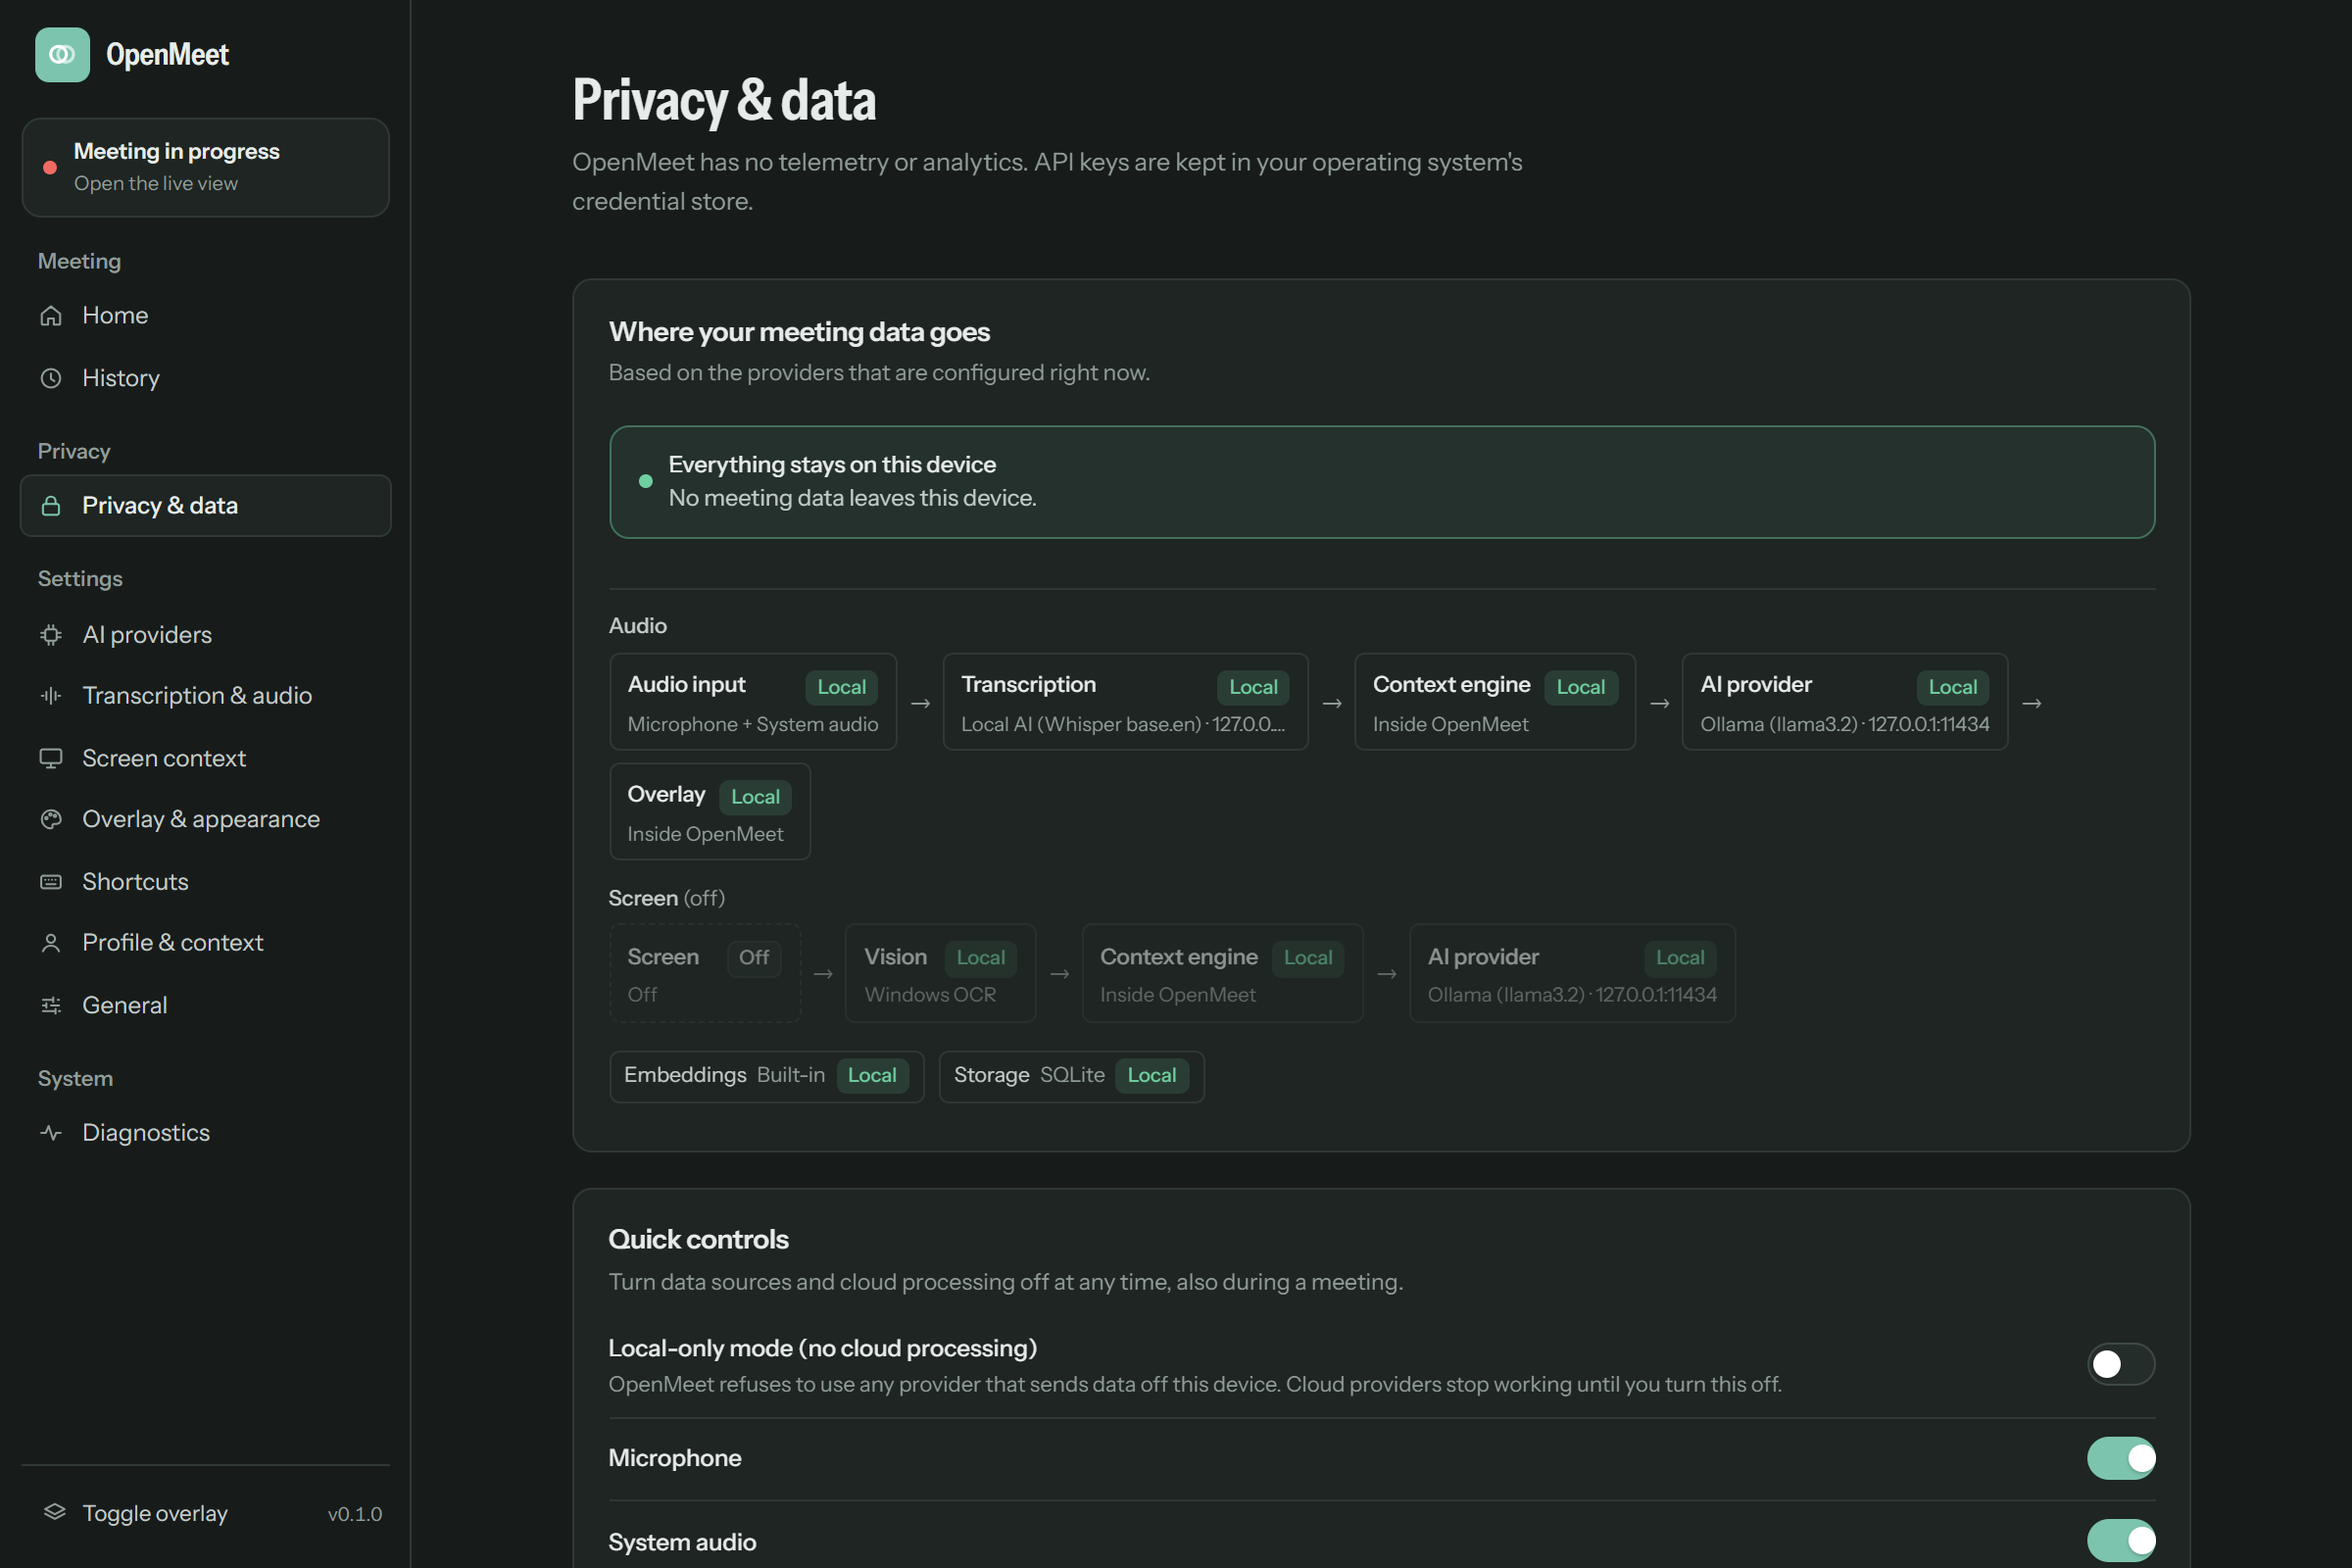
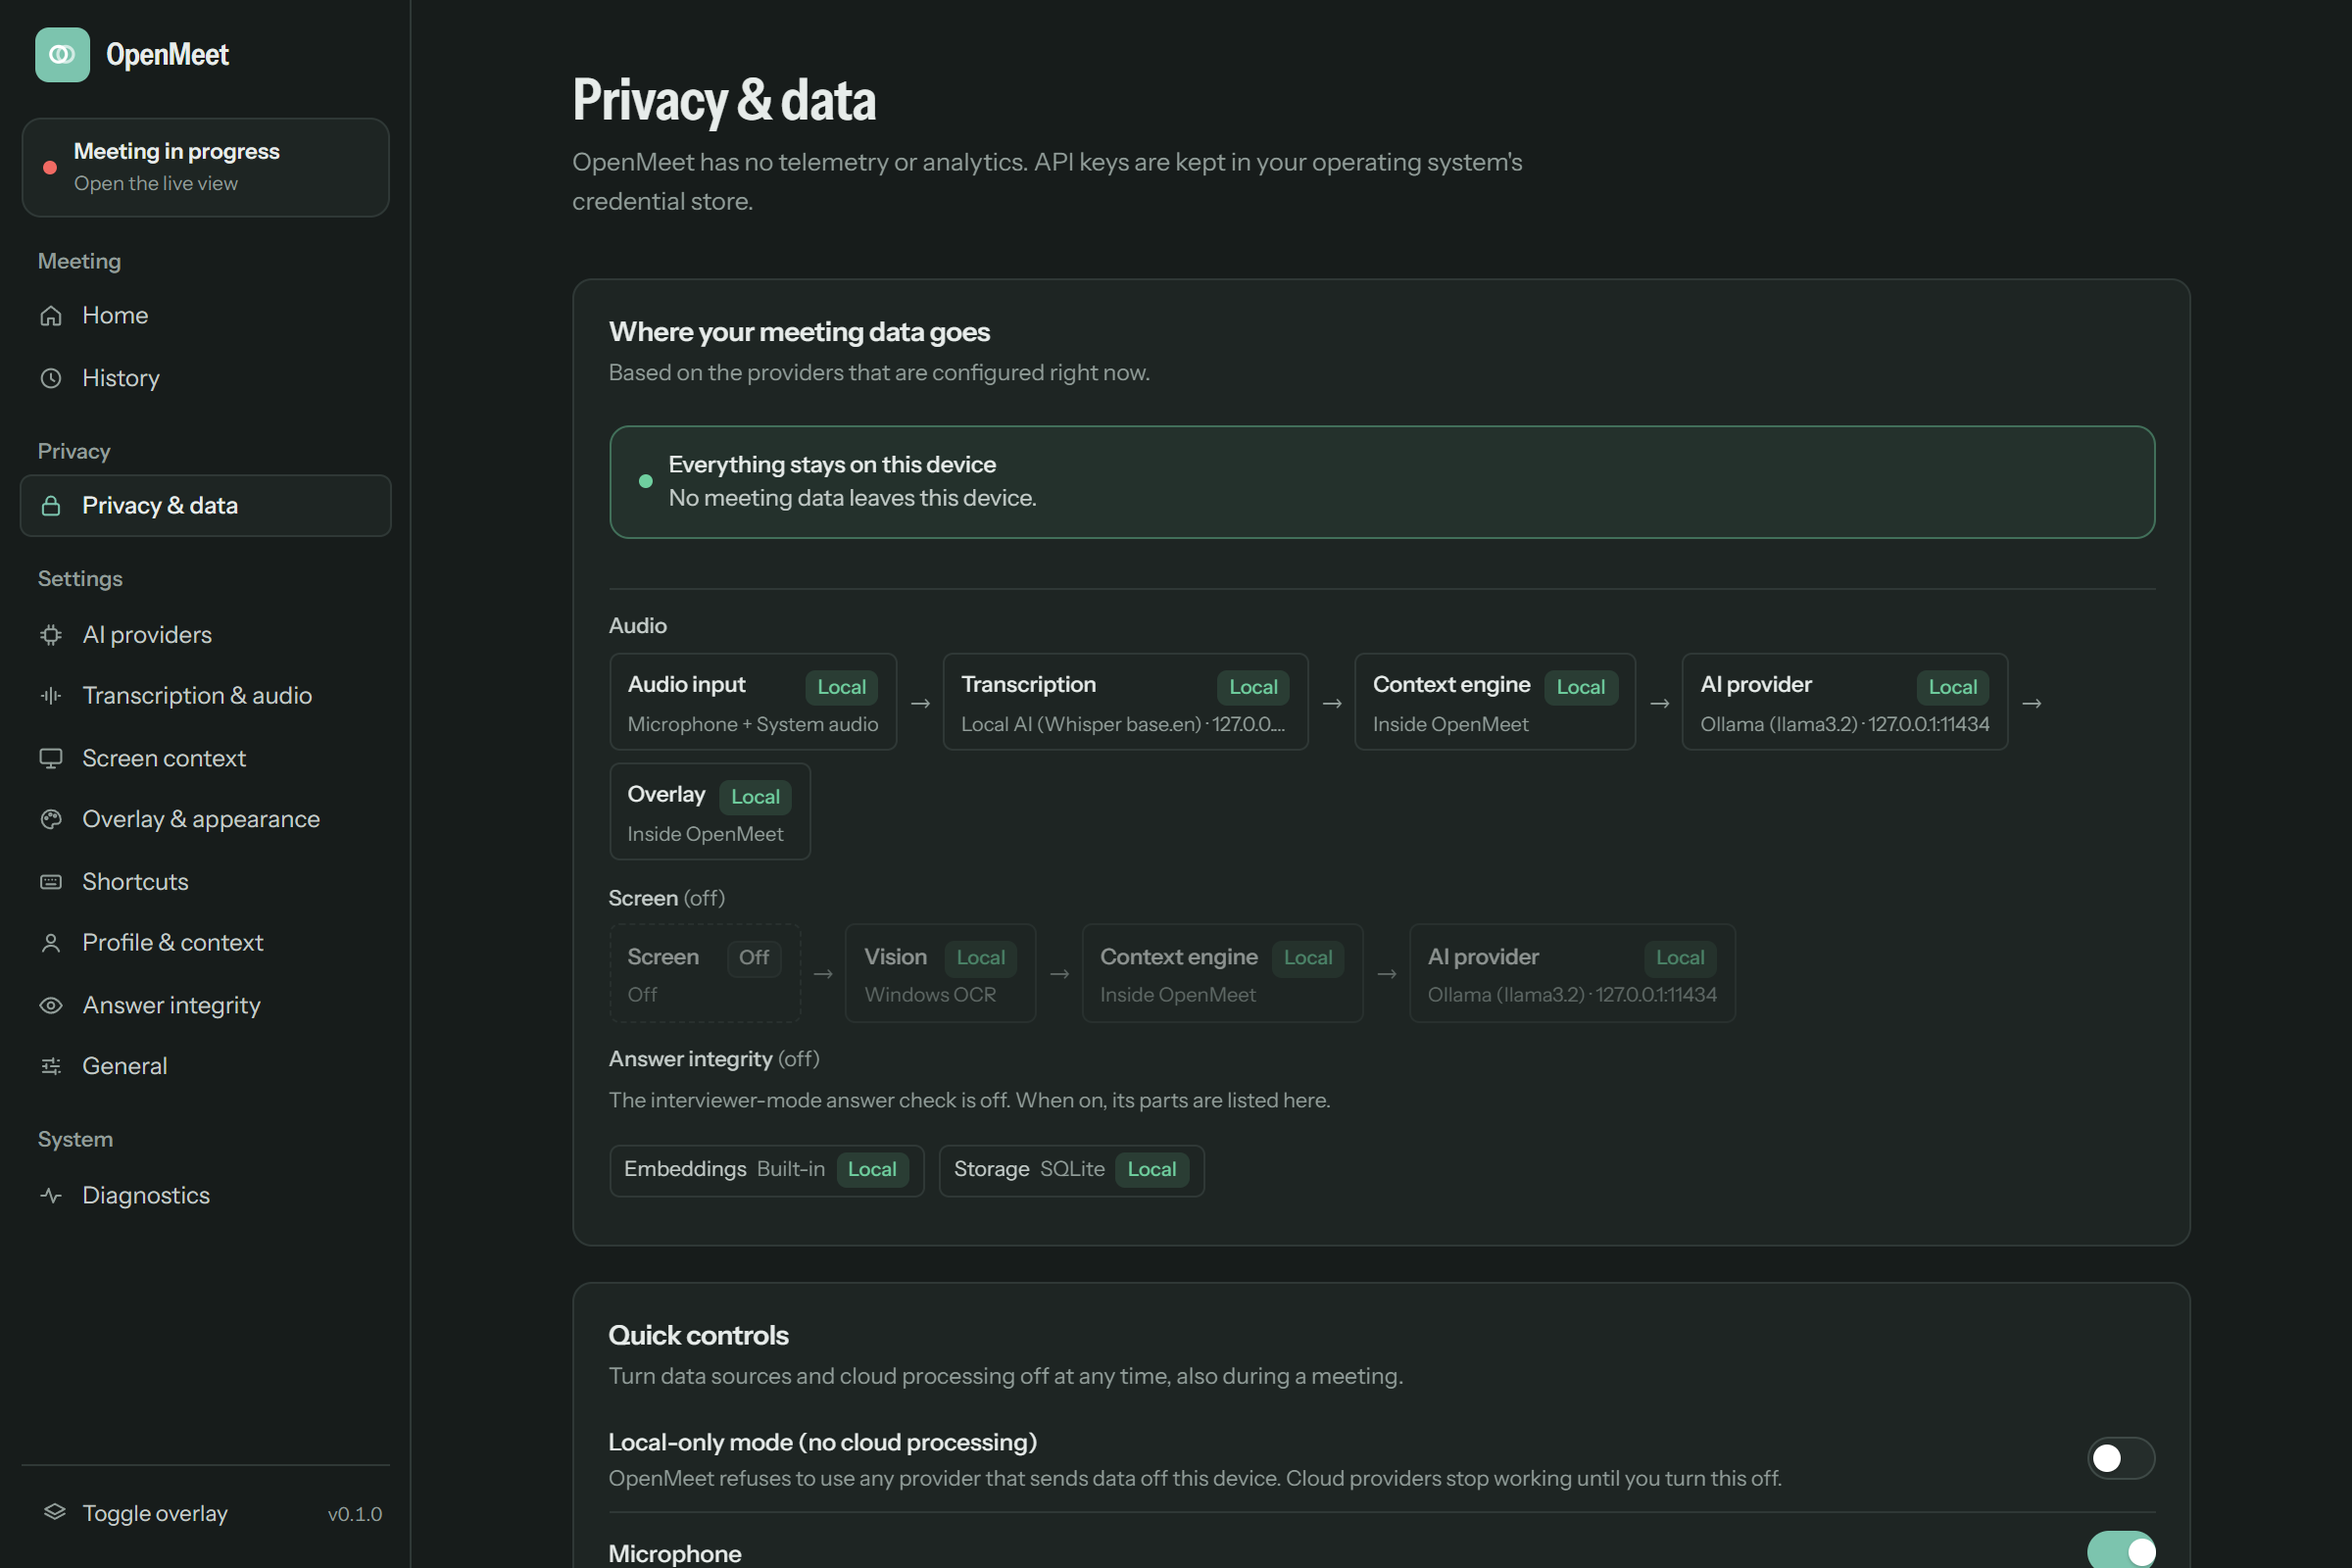
Add answer-integrity scenes to the screenshot harness
The harness gains two scenes built from the integrity demo's dialogue: the
overlay after the read-out answer (overlay-integrity) and the Settings →
Answer integrity page (main-integrity), with mocked integrity status,
displays and data flow. main-privacy is regenerated because the Privacy
page now has an "Answer integrity" block (off here). The other screenshots
are unchanged. Part labels on the settings and privacy pages drop the
"Integrity:" prefix and start with a capital.

diff --git a/scripts/screenshots/harness.tsx b/scripts/screenshots/harness.tsx
@@ -2,7 +2,8 @@
 // a browser with a mocked Tauri backend serving demo data. Used by
 // capture.mjs to produce docs/screenshots/*.png.
 //
-//   ?scene=overlay-candidate | overlay-interviewer | main-live | main-privacy
+//   ?scene=overlay-candidate | overlay-interviewer | overlay-integrity | main-live
+//          | main-privacy | main-integrity
 //          | main-home | main-history | main-ai | main-appearance (previews only)
 
 import { StrictMode } from "react";
@@ -15,21 +16,28 @@ import { App } from "@/main/App";
 import { useMain } from "@/main/store";
 import { useOverlay } from "@/overlay/store";
 import {
+  DATA_FLOW_INTEGRITY,
   DATA_FLOW_LOCAL,
+  DISPLAYS,
+  INTEGRITY_STATUS,
   MEETINGS,
   candidateSnapshot,
+  integritySnapshot,
   interviewerSnapshot,
   settings,
 } from "./fixtures";
 
 const scene = new URLSearchParams(location.search).get("scene") ?? "overlay-candidate";
 const overlay = scene.startsWith("overlay");
-const interviewer = scene === "overlay-interviewer" || scene === "main-live";
+const integrity = scene === "overlay-integrity" || scene === "main-integrity";
+const interviewer =
+  scene === "overlay-interviewer" || scene === "main-live" || scene === "overlay-integrity";
 // Scenes that show the main window between meetings get an idle engine.
 const SECTION_SCENES: Record<
   string,
-  "home" | "history" | "privacy" | "settings/ai" | "settings/appearance"
+  "home" | "history" | "privacy" | "settings/ai" | "settings/appearance" | "settings/integrity"
 > = {
+  "main-integrity": "settings/integrity",
   "main-privacy": "privacy",
   "main-home": "home",
   "main-history": "history",
@@ -37,7 +45,11 @@ const SECTION_SCENES: Record<
   "main-appearance": "settings/appearance",
 };
 const idle = scene in SECTION_SCENES && scene !== "main-privacy";
-const liveSnapshot: EngineSnapshot = interviewer ? interviewerSnapshot() : candidateSnapshot();
+const liveSnapshot: EngineSnapshot = integrity
+  ? integritySnapshot()
+  : interviewer
+    ? interviewerSnapshot()
+    : candidateSnapshot();
 const snapshot: EngineSnapshot = idle
   ? {
       ...liveSnapshot,
@@ -51,9 +63,14 @@ const snapshot: EngineSnapshot = idle
   : liveSnapshot;
 // Tall enough that the candidate answer's controls are in the picture.
 const appSettings = settings(
-  interviewer ? "interviewer" : "candidate",
-  scene === "overlay-candidate" ? 760 : 560,
+  interviewer || integrity ? "interviewer" : "candidate",
+  scene === "overlay-candidate" || scene === "overlay-integrity" ? 760 : 560,
 );
+if (integrity) {
+  appSettings.integrity.enabled = true;
+  appSettings.ai.embeddings.provider = "local_ai";
+  appSettings.integrity.candidateRegion = { x: 3200, y: 0, width: 1280, height: 720 };
+}
 
 mockWindows(overlay ? "overlay" : "main");
 mockIPC(
@@ -81,7 +98,11 @@ mockIPC(
           note: "Windows 10 version 2004 or later.",
         };
       case "get_data_flow":
-        return DATA_FLOW_LOCAL;
+        return integrity ? DATA_FLOW_INTEGRITY : DATA_FLOW_LOCAL;
+      case "get_integrity_status":
+        return INTEGRITY_STATUS;
+      case "list_displays":
+        return DISPLAYS;
       case "list_privacy_rules":
         return [
           {

diff --git a/scripts/screenshots/fixtures.ts b/scripts/screenshots/fixtures.ts
@@ -3,7 +3,10 @@
 // show what demo mode produces.
 
 import type {
+  DataFlowNode,
   DataFlowReport,
+  DisplayInfo,
+  IntegrityServiceView,
   DetectedQuestion,
   EngineSnapshot,
   FollowUpQuestion,
@@ -14,6 +17,7 @@ import type {
   TranscriptSegment,
 } from "@/bindings";
 import defaults from "./default-settings.json";
+import { quietFlag, raisedFlag } from "@/lib/integrity.fixtures";
 
 /** The demo meeting started a few minutes before the screenshot. */
 const T0 = Date.now() - 6 * 60_000 - 42_000;
@@ -312,3 +316,89 @@ export const DATA_FLOW_LOCAL: DataFlowReport = {
 };
 
 export const MEETINGS: MeetingListItem[] = [];
+
+// --- Answer integrity (the integrity demo scenario) -----------------------------
+
+/** Interviewer meeting after the integrity demo's fourth answer. */
+export function integritySnapshot(): EngineSnapshot {
+  const snap = interviewerSnapshot();
+  return {
+    ...snap,
+    integrityFlags: [
+      raisedFlag({ meetingId: "demo-meeting", answerStartMs: 310_000, answerEndMs: 352_000 }),
+      quietFlag({ meetingId: "demo-meeting", answerStartMs: 64_000, answerEndMs: 75_000 }),
+    ],
+  };
+}
+
+export const DISPLAYS: DisplayInfo[] = [
+  {
+    key: "DISPLAY1@1920x1080",
+    name: "DISPLAY1",
+    x: 0,
+    y: 0,
+    width: 1920,
+    height: 1080,
+    workArea: { x: 0, y: 0, width: 1920, height: 1040 },
+    scaleFactor: 1,
+    isPrimary: true,
+    orientation: "landscape",
+  },
+  {
+    key: "DISPLAY2@2560x1440",
+    name: "DISPLAY2",
+    x: 1920,
+    y: 0,
+    width: 2560,
+    height: 1440,
+    workArea: { x: 1920, y: 0, width: 2560, height: 1400 },
+    scaleFactor: 1,
+    isPrimary: false,
+    orientation: "landscape",
+  },
+];
+
+export const INTEGRITY_STATUS: IntegrityServiceView = {
+  reachable: true,
+  aiTextReady: true,
+  readingReady: true,
+  embeddingModel: "BAAI/bge-small-en-v1.5",
+  requiredEmbeddingModel: "BAAI/bge-small-en-v1.5",
+  message: "Ready.",
+};
+
+const INTEGRITY_NODES: DataFlowNode[] = [
+  {
+    component: "integrity",
+    label: "Integrity: AI-text and reading check",
+    location: "local",
+    provider: "Local AI (integrity check) · AI-text + reading models",
+    endpoint: "127.0.0.1:8765",
+  },
+  {
+    component: "integrity",
+    label: "Integrity: candidate video region (gaze)",
+    location: "local",
+    provider: "Captured by Local AI; frames are turned into gaze and dropped",
+    endpoint: "127.0.0.1:8765",
+  },
+  {
+    component: "integrity",
+    label: "Integrity: reference answers (AI provider)",
+    location: "local",
+    provider: "Ollama · llama3.2",
+    endpoint: "127.0.0.1:11434",
+  },
+  {
+    component: "integrity",
+    label: "Integrity: answer embeddings",
+    location: "local",
+    provider: "Local AI (fastembed) · default",
+    endpoint: "127.0.0.1:8765",
+  },
+];
+
+export const DATA_FLOW_INTEGRITY: DataFlowReport = {
+  ...DATA_FLOW_LOCAL,
+  nodes: [...DATA_FLOW_LOCAL.nodes, ...INTEGRITY_NODES],
+};

diff --git a/src/main/sections/settings/Integrity.tsx b/src/main/sections/settings/Integrity.tsx
@@ -5,6 +5,7 @@
 import { useCallback } from "react";
 import type { DataFlowNode } from "@/bindings";
 import { api } from "@/lib/ipc";
+import { integrityPartLabel } from "../../components/dataFlow";
 import { LocationBadge } from "../../components/LocationBadge";
 import { RegionPicker } from "../../components/RegionPicker";
 import { saveSettings } from "../../components/save";
@@ -23,7 +24,7 @@ function WhereItRuns({ nodes }: { nodes: DataFlowNode[] }) {
           key={n.label}
           className="flex items-center gap-1.5 rounded-md border border-border px-2 py-1 text-[0.76rem]"
         >
-          <span className="text-fg-soft">{n.label.replace(/^Integrity: /, "")}</span>
+          <span className="text-fg-soft">{integrityPartLabel(n.label)}</span>
           <LocationBadge location={n.location} endpoint={n.endpoint} />
         </li>
       ))}

diff --git a/src/main/sections/Privacy.tsx b/src/main/sections/Privacy.tsx
@@ -14,6 +14,7 @@ import { formatDateTime } from "@/lib/format";
 import {
   audioFlow,
   integrityNodes,
+  integrityPartLabel,
   otherNodes,
   privacyStatement,
   screenFlow,
@@ -128,7 +129,7 @@ function DataFlow({ report }: { report: DataFlowReport }) {
                   key={n.label}
                   className="flex items-center gap-1.5 rounded-md border border-border px-2 py-1 text-[0.76rem]"
                 >
-                  <span className="text-fg-soft">{n.label.replace(/^Integrity: /, "")}</span>
+                  <span className="text-fg-soft">{integrityPartLabel(n.label)}</span>
                   <span className="max-w-64 truncate text-muted" title={n.provider}>
                     {n.endpoint ? `${n.provider} · ${n.endpoint}` : n.provider}
                   </span>

diff --git a/src/lib/integrity.test.ts b/src/lib/integrity.test.ts
@@ -8,7 +8,7 @@ import {
   toRelative,
   validateRegion,
 } from "@/main/components/region";
-import { integrityNodes, otherNodes } from "@/main/components/dataFlow";
+import { integrityNodes, integrityPartLabel, otherNodes } from "@/main/components/dataFlow";
 import {
   answerRangeLabel,
   flagSummary,
@@ -157,6 +157,7 @@ describe("privacy data flow", () => {
       statement: "Meeting data is sent off this device for: Integrity: reference answers.",
     };
     expect(integrityNodes(report)).toHaveLength(1);
+    expect(integrityPartLabel("Integrity: answer embeddings")).toBe("Answer embeddings");
     expect(otherNodes(report).map((n) => n.component)).toEqual(["embeddings"]);
   });
 });

diff --git a/src/main/components/dataFlow.ts b/src/main/components/dataFlow.ts
@@ -167,6 +167,12 @@ export function integrityNodes(report: DataFlowReport): DataFlowNode[] {
   return report.nodes.filter((n) => n.component === "integrity");
 }
 
+/** "Integrity: answer embeddings" → "Answer embeddings". */
+export function integrityPartLabel(label: string): string {
+  const rest = label.replace(/^Integrity:\s*/, "");
+  return rest.charAt(0).toUpperCase() + rest.slice(1);
+}
+
 /** True when the screen pipeline is entirely off. */
 export function screenFlowDisabled(report: DataFlowReport): boolean {
   const screen = find(report, "screen");
